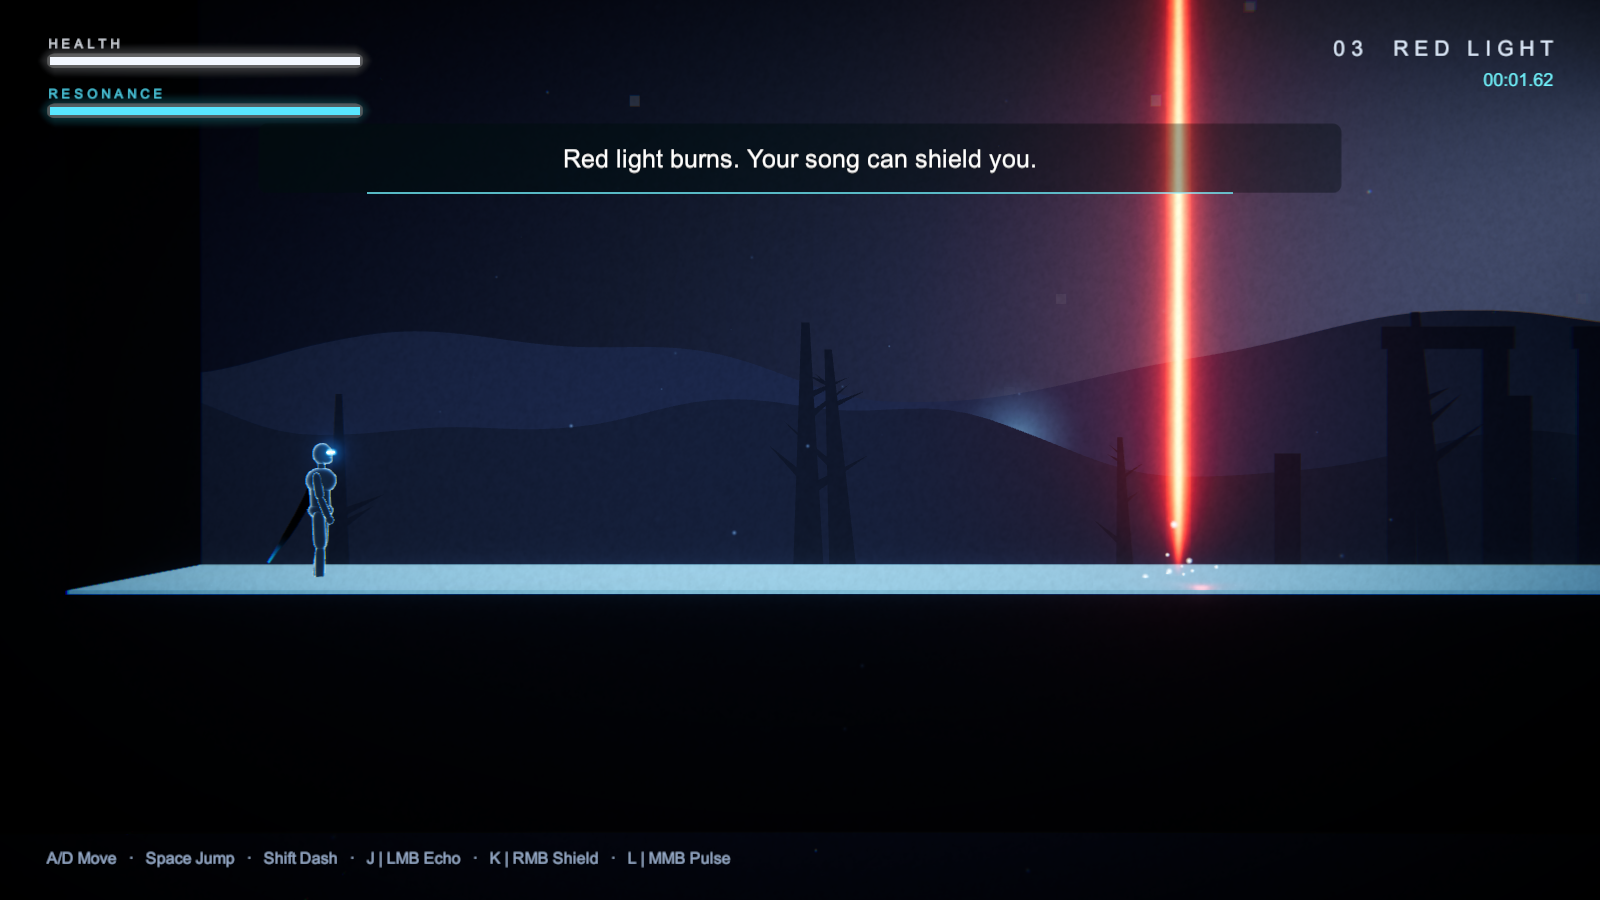
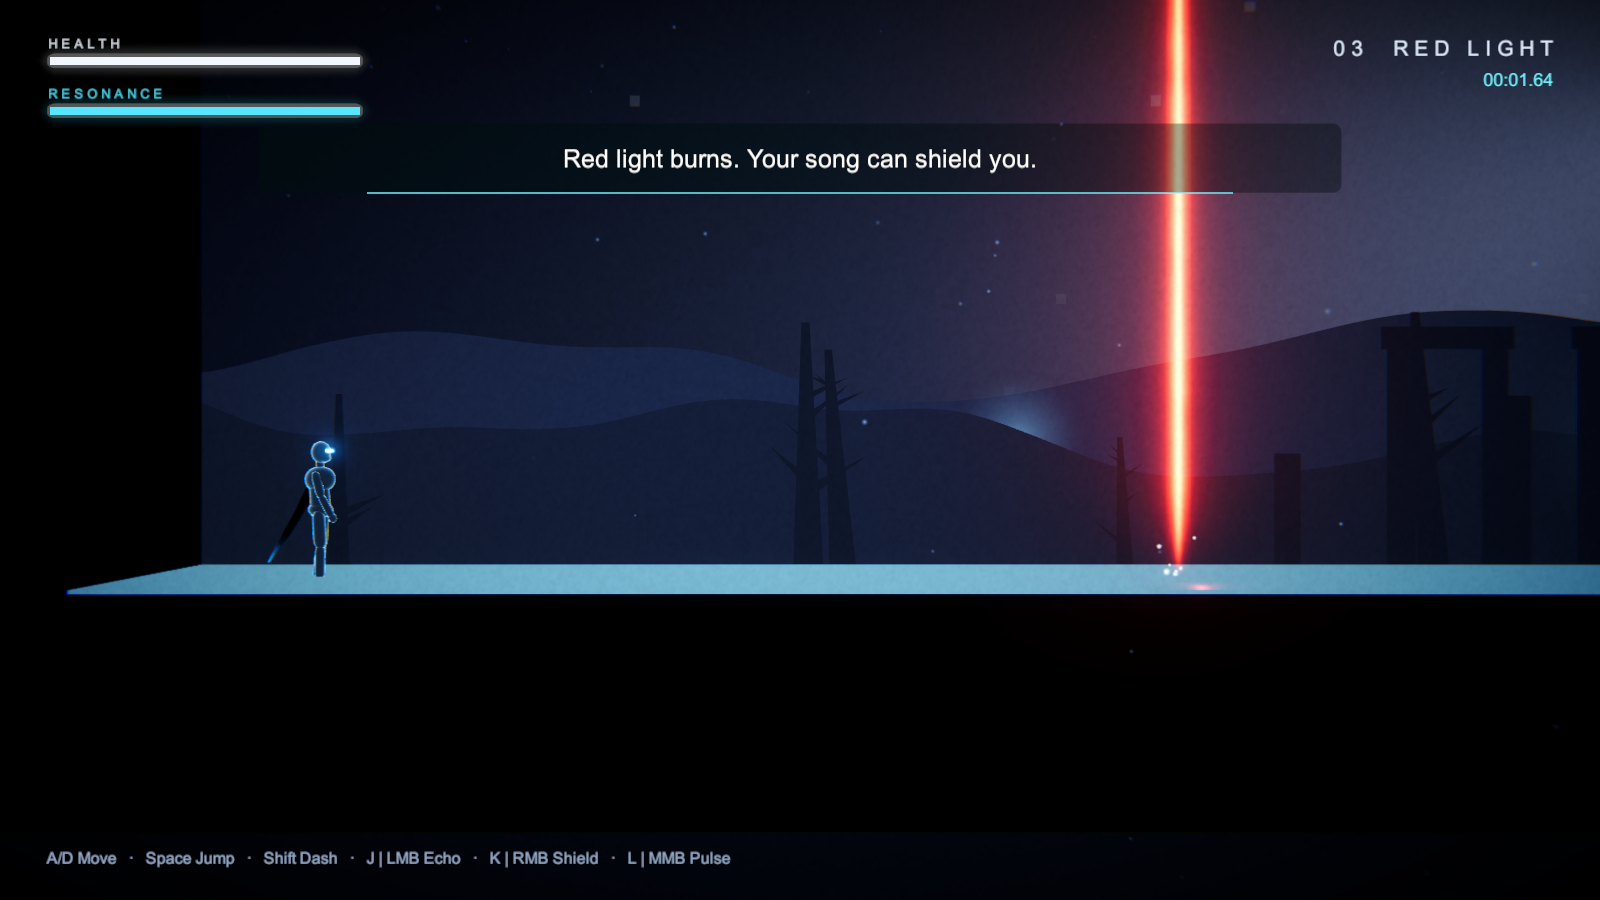
M4: levels 1-8, level entities, bot playthroughs, enemies (sentinel/wisp/moth), UI menus + HUD

Changed region(s): [[0.0625, 0.6222, 1.0, 0.6533], [0.1875, 0.4978, 0.2188, 0.5911]]

diff --git a/Assets/LumenWave/Tests/PlayMode/BotPlaythroughTests.cs b/Assets/LumenWave/Tests/PlayMode/BotPlaythroughTests.cs
@@ -29,6 +29,10 @@ namespace LumenWave.Tests
     {
         public static int[] Levels => Enumerable.Range(1, Mathf.Max(1, LevelDatabase.Count)).ToArray();
 
+        /// <summary>Debug aid: per-frame position trace for one level between two x values.</summary>
+        public static int TraceLevel = 0;
+        public static float TraceFromX = 39f, TraceToX = 53f;
+
         const float TimeLimit = 240f;   // game seconds per level
         const float TimeScale = 2.5f;
 
@@ -65,11 +69,18 @@ namespace LumenWave.Tests
             GameEvents.PlayerDied += onDied;
             Time.timeScale = TimeScale;
             float t = 0f;
+            int traced = 0;
             float maxX = rt.Player.transform.position.x;
             while (!rt.Completed && t < TimeLimit && GameSession.Deaths - deathsBefore < 12)
             {
                 t += Time.deltaTime;
                 maxX = Mathf.Max(maxX, rt.Player.transform.position.x);
+                var tp = rt.Player.transform.position;
+                if (TraceLevel == level && tp.x > TraceFromX && tp.x < TraceToX && traced < 400)
+                {
+                    traced++;
+                    Debug.Log($"[LumenWave] TRACE t={t:F2} pos=({tp.x:F2},{tp.y:F2}) v={body.Velocity} grounded={body.Grounded}");
+                }
                 yield return null;
             }
             Time.timeScale = 1f;

diff --git a/Assets/LumenWave/Scripts/Runtime/Level/LevelProps.cs b/Assets/LumenWave/Scripts/Runtime/Level/LevelProps.cs
@@ -316,11 +316,34 @@ namespace LumenWave
         public static int InLevel;
         public static event System.Action<int, int> Changed;  // collected, total in level
 
+        /// <summary>PlayerPrefs key read by the end screen: total shards collected this run.</summary>
+        public const string PrefsKey = "lw.secrets";
+
         public static void Collect()
         {
             TotalCollected++;
             CollectedInLevel++;
+            PlayerPrefs.SetInt(PrefsKey, TotalCollected);
             Changed?.Invoke(CollectedInLevel, InLevel);
+        }
+
+        /// <summary>New run (level 1 starting with a fresh timer): reset the run tally.</summary>
+        public static void ResetRun()
+        {
+            TotalCollected = 0;
+            PlayerPrefs.SetInt(PrefsKey, 0);
+        }
+
+        [RuntimeInitializeOnLoadMethod(RuntimeInitializeLoadType.BeforeSceneLoad)]
+        static void Install()
+        {
+            GameEvents.LevelStarted -= OnLevelStarted;
+            GameEvents.LevelStarted += OnLevelStarted;
+        }
+
+        static void OnLevelStarted(int level)
+        {
+            if (level == 1 && GameSession.TotalTime < 0.5f) ResetRun();
         }
 
         public static void ResetLevel() { CollectedInLevel = 0; InLevel = 0; }

diff --git a/Assets/LumenWave/Scripts/Runtime/Visuals/TileStyle.cs b/Assets/LumenWave/Scripts/Runtime/Visuals/TileStyle.cs
@@ -53,9 +53,10 @@ namespace LumenWave
             go.name = "EdgeGlow";
             Backdrop.RemoveCollider(go);
             go.transform.SetParent(parent, false);
-            go.transform.localPosition = new Vector3((xa + xb) * 0.5f, top + 0.015f, 0f);
-            go.transform.localScale = new Vector3(xb - xa, 0.05f, depth + 0.02f);
-            var emission = mood.edge * 0.55f;
+            // A thin glowing line along the front top edge (facing the camera) – reads as moss / moonlit rim.
+            go.transform.localPosition = new Vector3((xa + xb) * 0.5f, top - 0.02f, -depth * 0.5f - 0.01f);
+            go.transform.localScale = new Vector3(xb - xa, 0.07f, 0.06f);
+            var emission = mood.edge * 0.9f;
             go.GetComponent<MeshRenderer>().sharedMaterial = MaterialLibrary.Tinted("LitEmissive", mood.edge * 0.2f, emission);
             Backdrop.Shadowless(go);
         }
